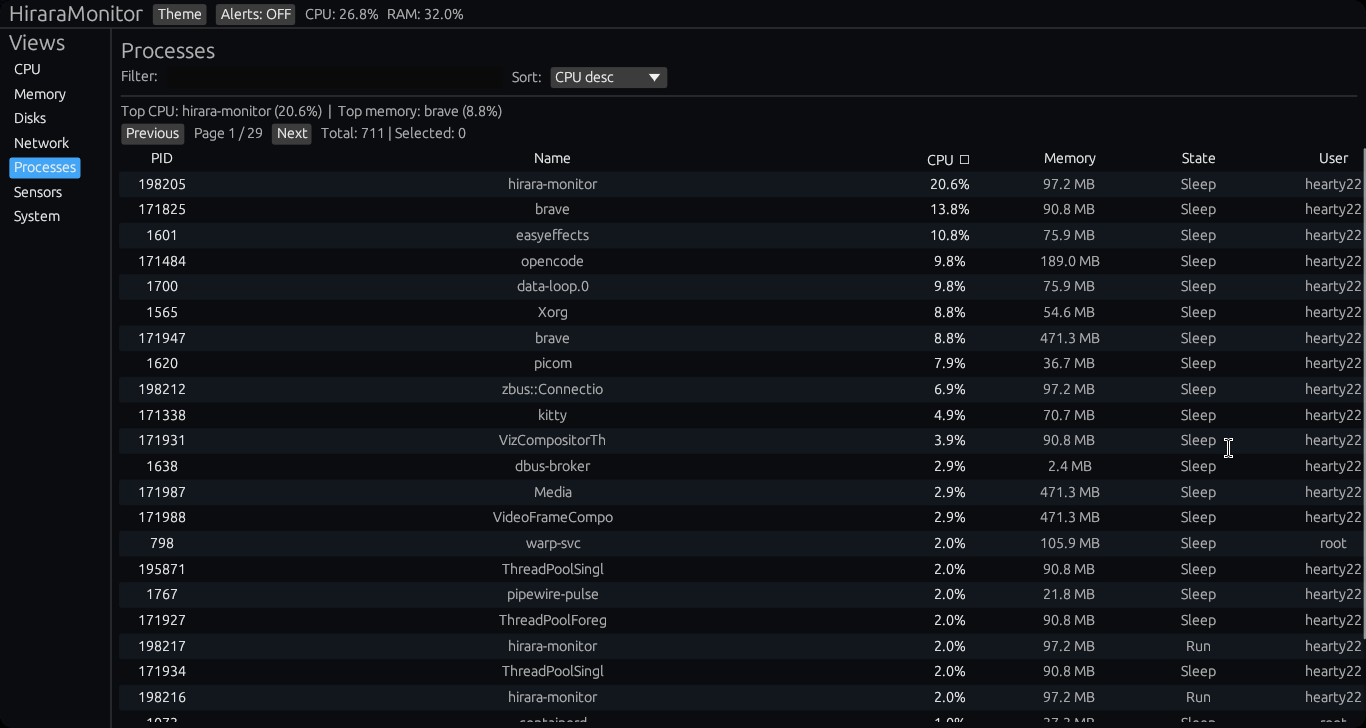
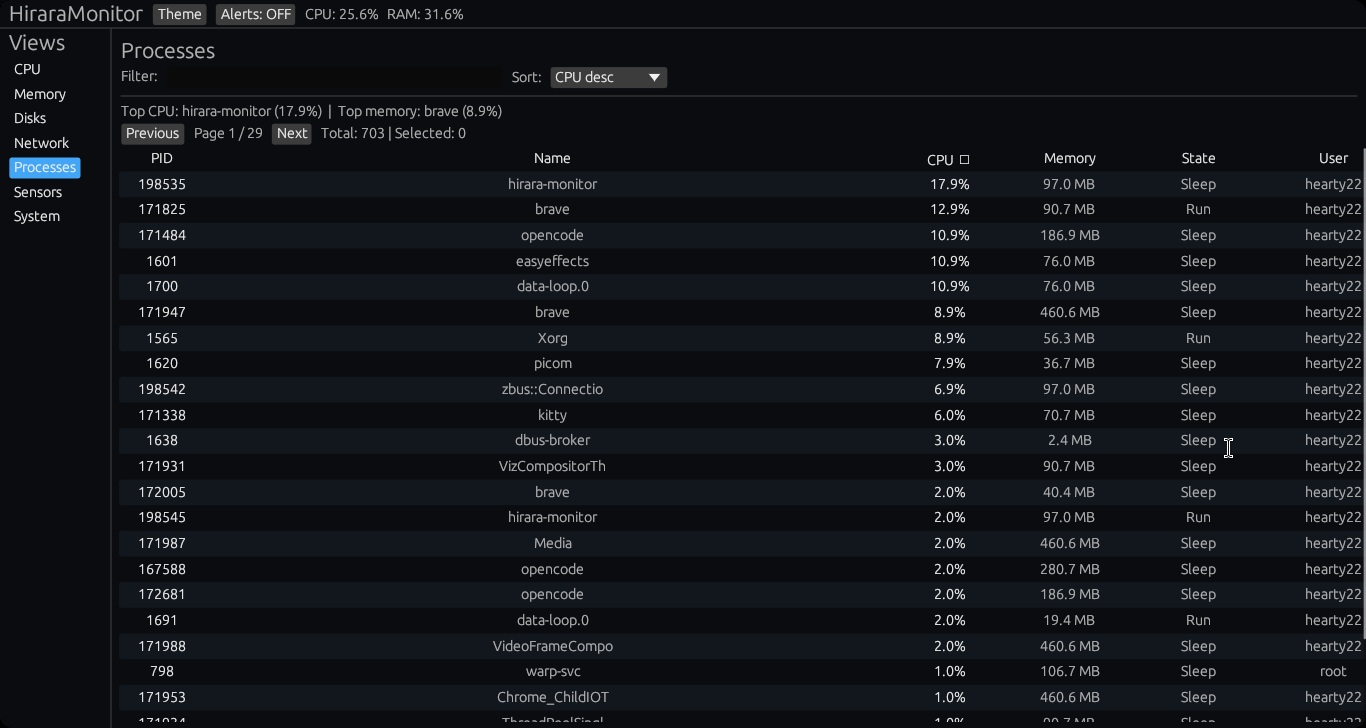
chore(release): prepare v0.4.0 with tray, docs and install script

diff --git a/README.md b/README.md
@@ -1,118 +1,133 @@
 # HiraraMonitor
 
-HiraraMonitor is a desktop system monitor built with Rust and egui, inspired by btop. It ships a native UI with real-time charts and a collector thread that keeps metric refresh outside the render loop.
+![HiraraMonitor demo](assets/demo.gif)
+
+[![Release](https://img.shields.io/github/v/release/hearty22/HiraraMonitor)](https://github.com/hearty22/HiraraMonitor/releases)
+[![CI](https://github.com/hearty22/HiraraMonitor/actions/workflows/ci.yml/badge.svg)](https://github.com/hearty22/HiraraMonitor/actions/workflows/ci.yml)
+[![License: MIT](https://img.shields.io/badge/license-MIT-blue.svg)](LICENSE)
+[![Rust](https://img.shields.io/badge/rust-1.75%2B-orange.svg)](https://www.rust-lang.org)
+
+A native Linux system monitor with a GUI, built in Rust with [egui](https://github.com/emilk/egui).
+Real-time CPU, memory, disk, network, process and sensor views, plus an optional system tray, without leaving the desktop.
+
+## Why I built it
+
+`btop` is excellent, but it lives in a terminal. I wanted the same information in a native window I can keep on a second monitor, with a tray icon I can restore from, and I wanted to learn how far egui could go for a real, stateful desktop app.
+
+The interesting part was not the charts, it was keeping the UI at a stable frame rate while a separate thread reads `/proc` and `sysinfo` every few hundred milliseconds.
 
 ## Features
 
-- CPU monitoring: global and per-core usage, frequency, temperature when available.
-- Memory and swap monitoring with rolling charts.
-- Disk monitoring with usage, filesystem, mount point and read/write throughput.
-- Network monitoring with RX/TX rates and totals.
-- Process monitoring with filter, sorting, pagination, selection, details, safe terminate and kill.
-- Sensors and system metadata views.
-- Light and dark themes with a dedicated theme application.
-- Visual alerts for CPU, RAM and process values with configurable thresholds.
-- Preferences persisted to a TOML file, with CLI precedence.
-- Linux-specific disk throughput from `/proc/diskstats`.
-- Fixed-width layouts for stable process, disk and sensor tables.
+- **CPU**: global and per-core usage, current frequency, temperature when available, rolling chart.
+- **Memory**: RAM and swap usage with history charts.
+- **Disks**: usage, filesystem, mount point, plus read/write throughput from `/proc/diskstats`.
+- **Network**: per-interface RX/TX rates and totals.
+- **Processes**: filter, sorting, pagination, multi-selection, detail window, guarded terminate and kill.
+- **Sensors**: component temperatures with current and maximum values.
+- **System**: hostname, OS, kernel, architecture, uptime and load average.
+- **Extras**: light/dark themes, configurable visual alerts, TOML preferences, optional system tray.
 
-## Build
+## Screenshots
+
+| CPU | Processes |
+|---|---|
+| ![CPU view](assets/screenshots/cpu.png) | ![Processes view](assets/screenshots/processes.png) |
+
+| Disks |
+|---|
+| ![Disks view](assets/screenshots/disks.png) |
+
+## Install
+
+Prebuilt Linux binaries are published on the [releases page](https://github.com/hearty22/HiraraMonitor/releases).
 
 ```bash
+curl -fsSL https://raw.githubusercontent.com/hearty22/HiraraMonitor/main/install.sh | sh
+```
+
+This downloads the latest `x86_64-linux` binary into `~/.local/bin`. Make sure that directory is on your `PATH`.
+
+Runtime dependencies for the tray (Arch):
+
+```bash
+sudo pacman -S gtk3 libappindicator-gtk3
+```
+
+The app runs without the tray if those libraries are missing, but you will see a warning in the logs.
+
+### From source
+
+```bash
+git clone https://github.com/hearty22/HiraraMonitor.git
+cd HiraraMonitor
 cargo build --release
+./target/release/hirara-monitor
 ```
 
-## Run
+Requires a recent stable Rust toolchain and X11. Build without the tray with `--no-default-features`.
+
+## Usage
 
 ```bash
-cargo run --release
+hirara-monitor --refresh-ms 500 --history 300 --dark
 ```
 
-Optional arguments:
+| Flag | Description |
+|---|---|
+| `--refresh-ms <ms>` | Metric refresh interval, minimum 250 ms |
+| `--history <samples>` | Retained samples for charts, clamped to 30..5000 |
+| `--light` / `--dark` | Start with a specific theme |
+| `--config <path>` | Config file path, overrides `HIRARA_CONFIG` |
 
-```bash
-cargo run --release -- --refresh-ms 500 --history 300 --light
-cargo run --release -- --config ./hirara.toml
-```
+Configuration is persisted to `~/.config/hiraramonitor/config.toml` by default.
 
-Available options:
+### Keyboard shortcuts
 
-- `--refresh-ms <milliseconds>`: metric refresh interval; minimum 250ms.
-- `--history <samples>`: retained sample count; clamped to 30..5000.
-- `--light`: start in light theme.
-- `--dark`: start in dark theme.
-- `--config <path>`: config file path. Environment override: `HIRARA_CONFIG`.
+| Key | Action |
+|---|---|
+| `1`–`7` | Switch view |
+| `T` | Toggle theme |
 
-Configuration paths:
-
-- default on Linux: `~/.config/hiraramonitor/config.toml`
-- explicit path always takes priority.
+Process rows support single and multi-select (Ctrl/Shift). Terminate and force-kill actions ask for confirmation, and PID 1 plus the monitor's own process are protected.
 
 ## Architecture
 
-The app separates collection, snapshot publishing, UI state and rendering.
-
-- `collector.rs` refreshes system information on a background thread.
-- `snapshot.rs` defines the immutable data model.
-- `history.rs` stores circular rolling buffers for charts.
-- `app.rs` ingests snapshots, owns routing and persisted UI preferences.
-- `ui/*` renders each view.
-- `platform/*` contains Linux and unsupported implementations.
-- Settings persist to the file chosen by `--config`/`HIRARA_CONFIG`, or the default path on Linux.
-
-See `docs/ARCHITECTURE.md` for details.
-
-## Keyboard shortcuts
-
-- `1`–`7`: switch views
-- `T`: toggle theme
-- Top bar button: toggle visual alerts
-
-## Controls
-
-- Process selection: click the PID cell.
-- Process floating detail: opens for the selected PID.
-- Sort columns: click a header to toggle direction.
-- Multi-select: Ctrl/Shift click process rows.
-- Batch actions: "Terminar seleccionados" and "Forzar seleccion" require confirmation.
-
-## Project layout
+The app separates collection from rendering:
 
 ```text
-src/
-├── app.rs
-├── config.rs
-├── config_store.rs
-├── main.rs
-├── metrics/
-│   ├── collector.rs
-│   ├── history.rs
-│   └── snapshot.rs
-├── platform/
-│   ├── linux.rs
-│   ├── mod.rs
-│   └── unsupported.rs
-├── ui/
-│   ├── components.rs
-│   ├── cpu_panel.rs
-│   ├── disks_panel.rs
-│   ├── memory_panel.rs
-│   ├── network_panel.rs
-│   ├── processes_panel.rs
-│   ├── sensors_panel.rs
-│   ├── system_panel.rs
-│   └── theme.rs
-└── util/
-    └── format.rs
+sysinfo + /proc
+      │
+      ▼
+Collector thread ──► Arc<SystemSnapshot> ──► sync_channel(1)
+                                                  │
+                                                  ▼
+                                          App state + history
+                                                  │
+                                                  ▼
+                                             egui panels
 ```
 
-## Notes
+- `metrics/collector.rs` refreshes system information on a background thread with backoff on failure.
+- `metrics/snapshot.rs` defines immutable snapshots shared through `Arc`.
+- `metrics/history.rs` keeps fixed-capacity circular buffers for charts.
+- `ui/` renders each view from the latest snapshot without blocking the render loop.
+- `platform/` isolates Linux-specific code such as disk throughput.
 
-- Linux is the supported target; unsupported targets provide fallback disk metrics.
-- GPU monitoring is intentionally not implemented.
-- Process kill/terminate is implemented with PID 1 and own-process protection.
-- The UI is intentionally read-only except for guarded process signals.
-- Release builds and CI are available for Linux.
+See [docs/ARCHITECTURE.md](docs/ARCHITECTURE.md) for the full breakdown.
+
+## Engineering notes
+
+- Collector and render loop communicate through a bounded channel, so a slow UI never queues unbounded snapshots.
+- Process actions send signals through a small platform layer and report per-PID results.
+- The system tray has AppIndicator and KSNI backends, which makes it work on desktops and bars like Polybar.
+- CI runs `cargo fmt --check`, `cargo clippy -D warnings` and `cargo test` on every pull request; tags publish release binaries automatically.
+
+## Limitations
+
+- Linux only. Other targets compile with fallback disk metrics.
+- GPU monitoring is intentionally out of scope.
+- Sensor availability depends on what `sysinfo` exposes on your hardware.
+- The UI is read-only except for guarded process signals.
 
 ## License
 

diff --git a/CHANGELOG.md b/CHANGELOG.md
@@ -1,5 +1,19 @@
 # Changelog
 
+## Version 0.4.0 - 2026-11-22
+
+### Added
+- Optional system tray with AppIndicator and KSNI backends, plus restore and quit actions.
+- One-line install script that fetches the latest release binary.
+- Demo GIF and screenshots in the README.
+
+### Changed
+- All UI strings translated to English for a consistent public release.
+- CI now also runs on pushes to `main`.
+
+### Fixed
+- Sort combo box no longer renders a redundant label.
+
 ## Version 0.3.0 - 2026-10-27
 
 ### Added
